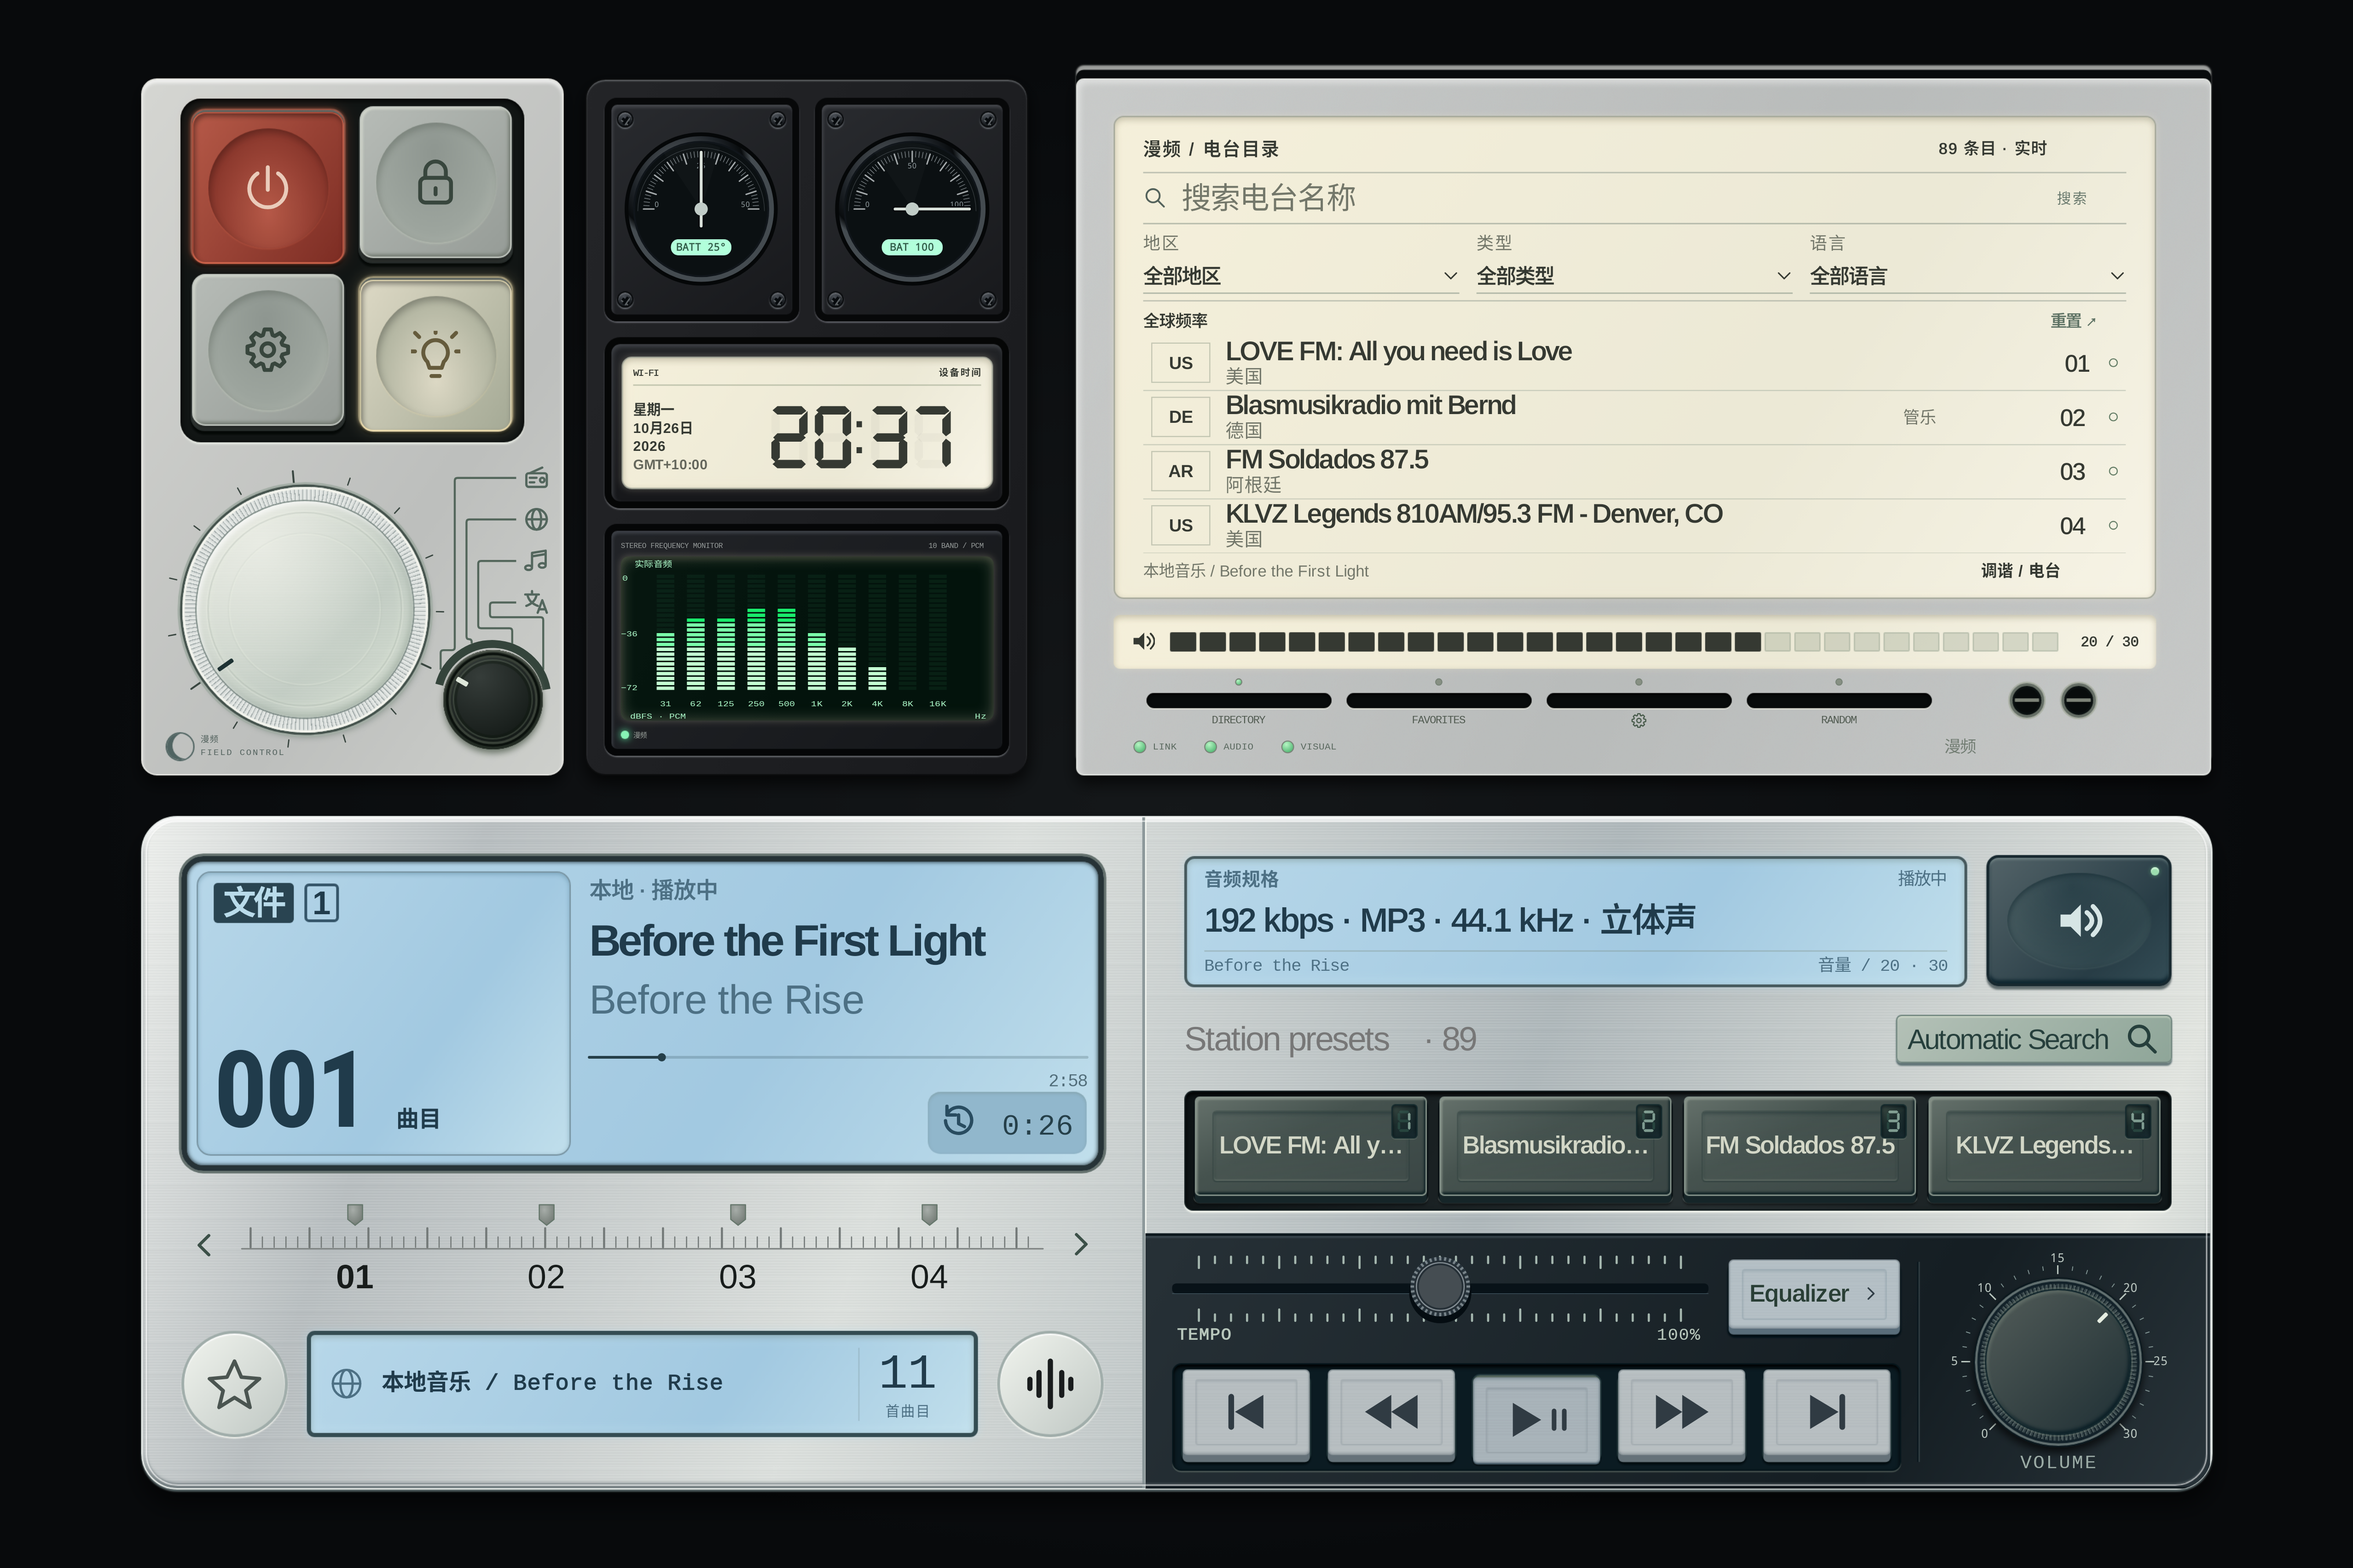
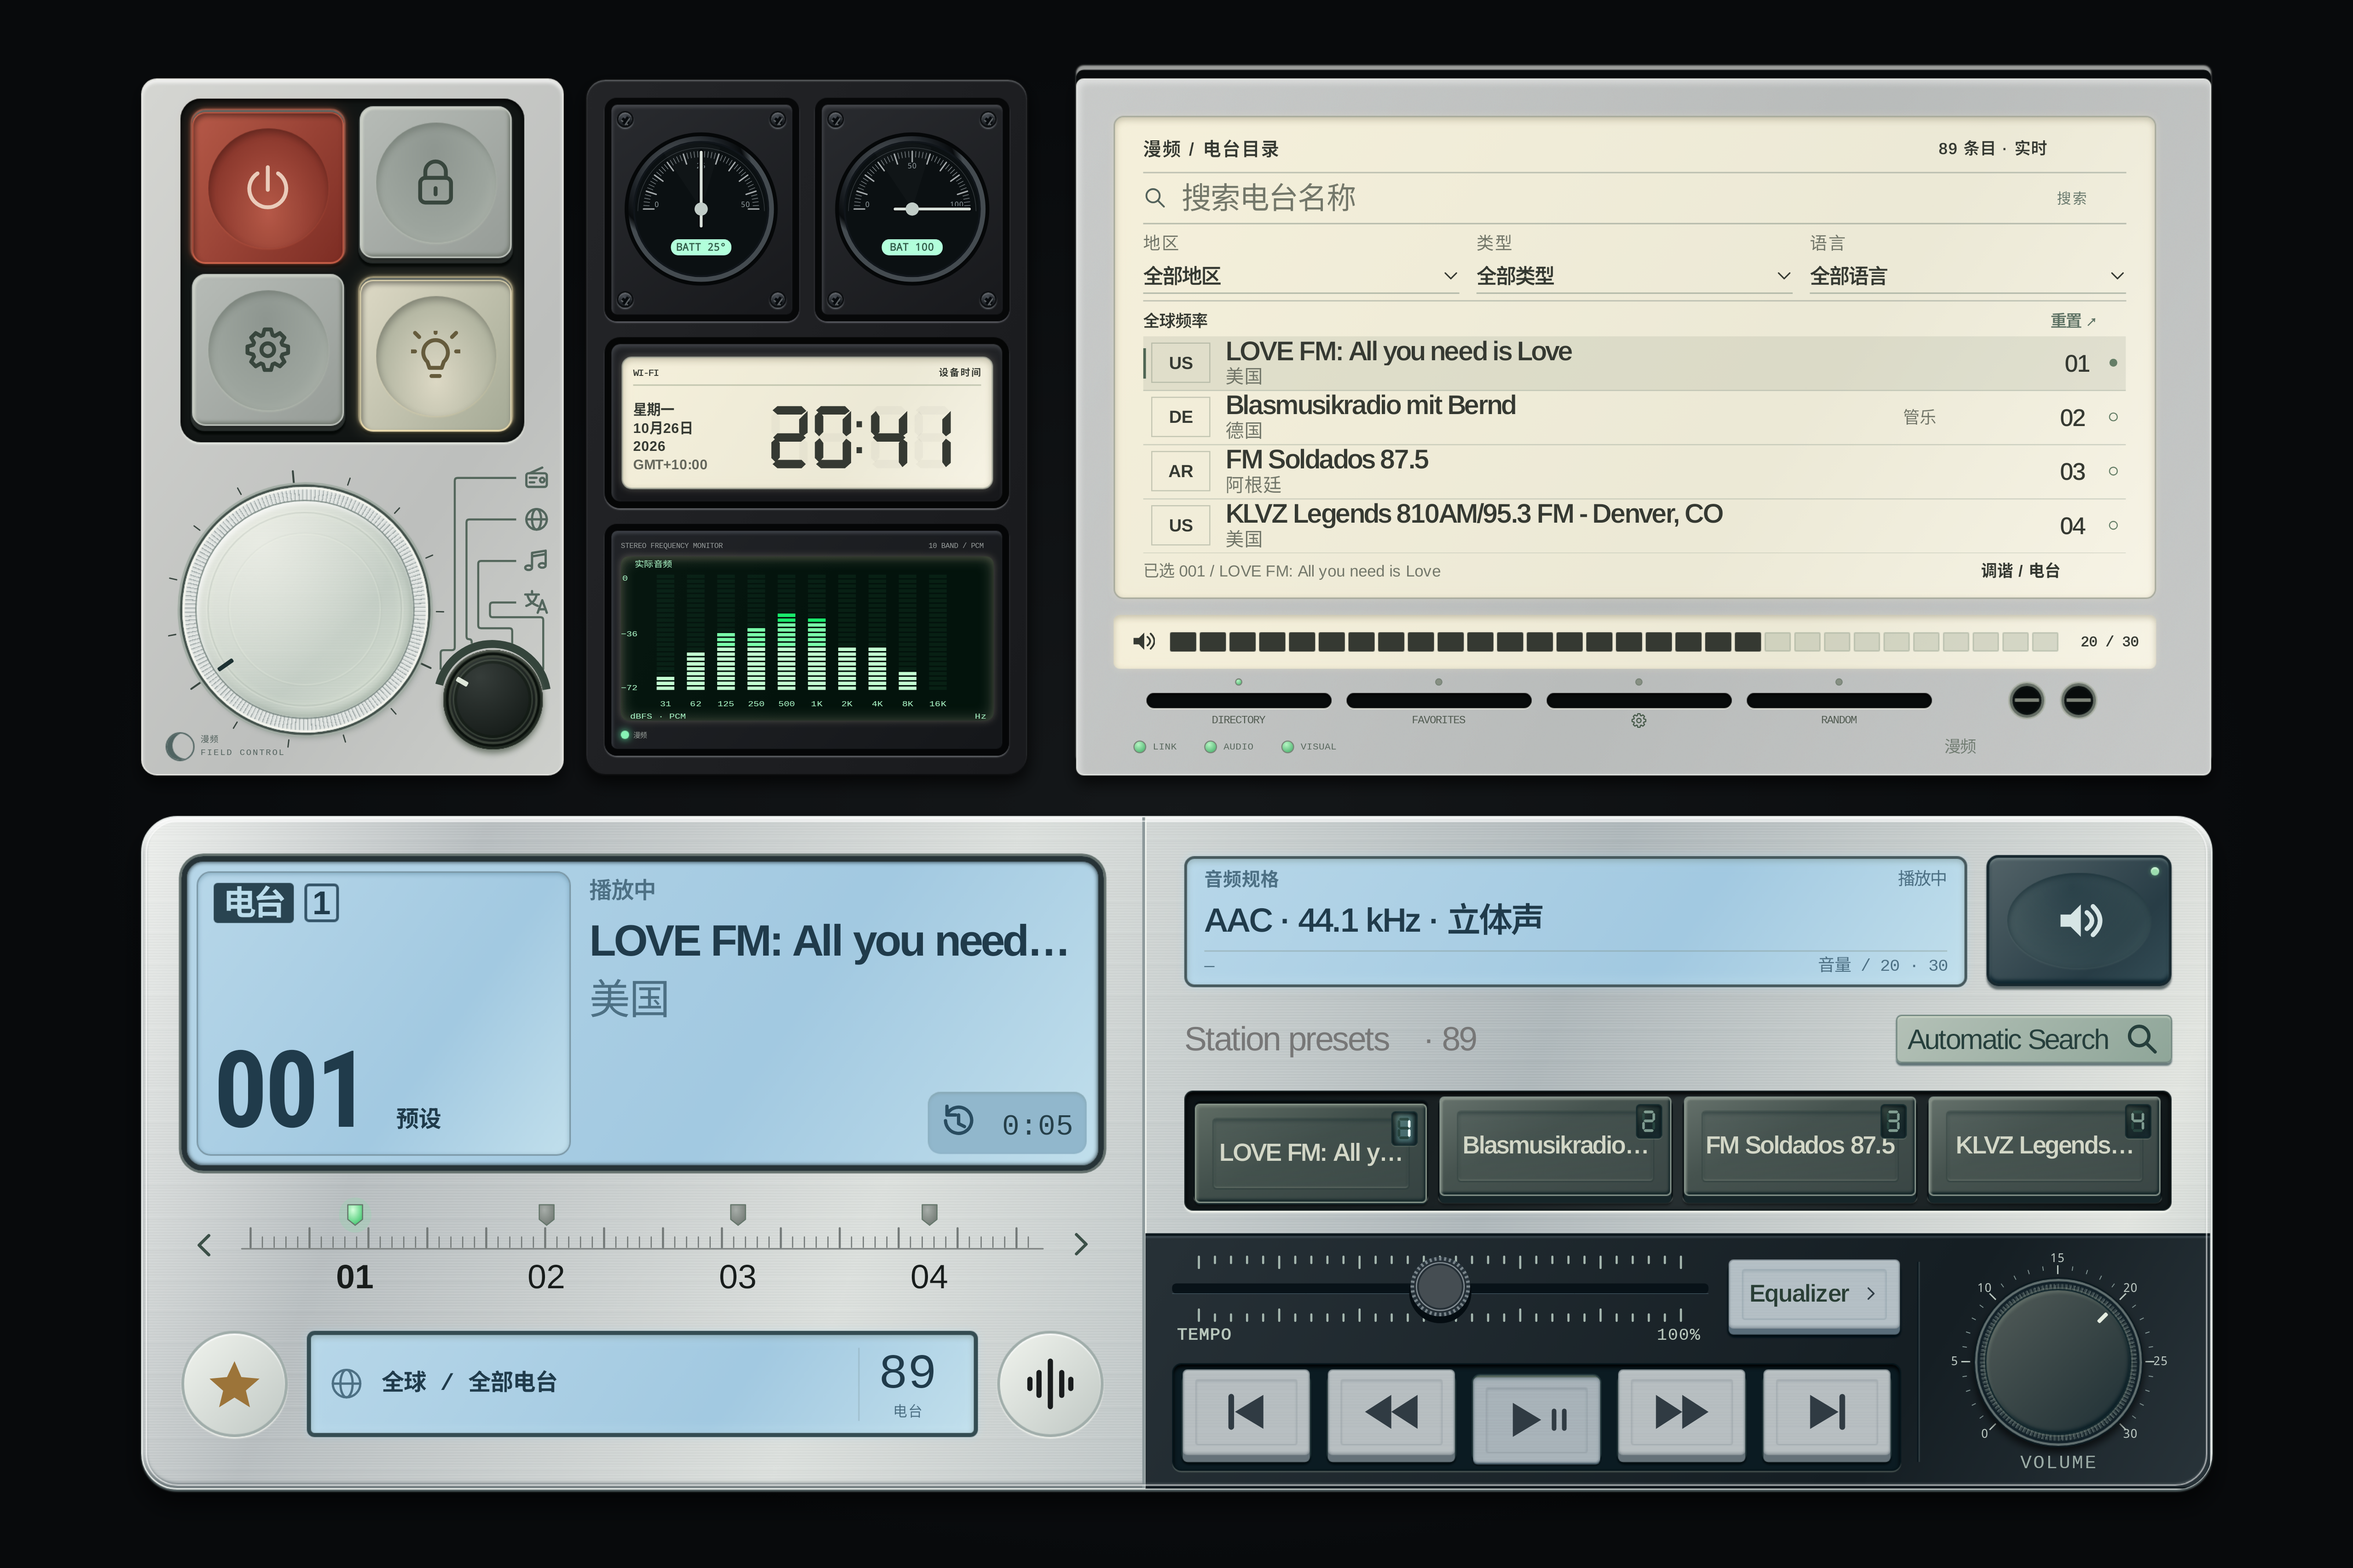
Show default radio playback in both README product mockups
Export both current native pages while a real catalogue station is decoding. Use the default radio CD at its resting orientation in the immersive view, with no bundled-album artwork. Keep the existing 5112x3408 export size, album-page image and image order.

Verify the native export reports radio source and zero CD rotation, inspect both complete PNGs, and preserve the released 1.0.0 APK byte-for-byte.

中文摘要：前两张高清示意图统一展示电台播放，沉浸页恢复静止朝向的默认 CD，第三张专辑页保持不变。

diff --git a/android/app/src/androidTest/java/com/aether/radio/ProductMockRenderer.kt b/android/app/src/androidTest/java/com/aether/radio/ProductMockRenderer.kt
@@ -19,22 +19,36 @@ class ProductMockRenderer(private val test:Instrumentation,private val activity:
             state.powered=true;state.locked=false;state.language="zh";state.page=0
             state.query="";state.region="";state.genre="";state.stationLanguage="";state.listOffset=0;state.presetOffset=0
             state.favorites.clear();state.favorites.addAll(state.catalog.distinctBy{it.id}.take(4).map{it.id})
-            state.spectrumEnabled=true;state.changeVolume(20);state.changeTempo(100)
+            state.spectrumEnabled=true;state.motion=false;state.changeVolume(20);state.changeTempo(100)
             state.showView("directory");activity.surface.setLight(true)
-            state.selectLocal(LocalMusic.bundled(test.targetContext),0)
         }
-        waitFor{state.playing&&state.spectrumFrame!=null&&activity.surface.immersivePlayback.coverLoaded&&!activity.surface.refreshing}
-        main{state.seekLocal(21000)}
-        waitFor{state.playing&&state.displayPositionMs>=21000}
+        val candidates=main{state.catalog.filter{it.stream?.startsWith("https://")==true}.take(4)}
+        check(candidates.isNotEmpty())
+        var connected=false
+        for(station in candidates){
+            main{state.select(station.id)}
+            val end=SystemClock.uptimeMillis()+25000
+            while(SystemClock.uptimeMillis()<end){
+                connected=main{!state.isLocal&&state.station?.id==station.id&&state.playing&&state.spectrumFrame!=null&&state.decodedFormat!=null}
+                if(connected)break
+                Thread.sleep(100)
+            }
+            if(connected)break
+        }
+        check(connected){"No real catalogue radio stream decoded for the product images"}
+        // Capture the default radio disc at its resting orientation without changing playback.
+        main{activity.surface.immersivePlayback.dragging=true;activity.surface.immersivePlayback.rotation=0f}
+        waitFor{!activity.surface.immersivePlayback.coverLoaded&&!activity.surface.refreshing}
         Thread.sleep(2400)
         val files=JSONArray()
         for((page,name) in listOf(0 to "modern-mock-hd.png",1 to "immersive-mock-hd.png")){
             main{activity.surface.cancelInput();state.page=page;state.changed()}
-            waitFor{activity.surface.committedPage==page&&!activity.surface.refreshing&&state.playing}
+            waitFor{activity.surface.committedPage==page&&!activity.surface.refreshing&&state.playing&&(page==0||activity.surface.painter.mainDisc!=null)}
             Thread.sleep(1600)
             val bitmap=main{
                 val view=activity.surface
                 check(view.width==3408&&view.height==2272)
+                view.immersivePlayback.dragging=true;view.immersivePlayback.rotation=0f
                 Bitmap.createBitmap(5112,3408,Bitmap.Config.ARGB_8888).also{image->
                     val canvas=Canvas(image);canvas.scale(1.5f,1.5f);view.draw(canvas)
                 }
@@ -44,8 +58,10 @@ class ProductMockRenderer(private val test:Instrumentation,private val activity:
             files.put(JSONObject().put("file",name).put("width",bitmap.width).put("height",bitmap.height).put("page",page))
             bitmap.recycle()
         }
+        main{activity.surface.immersivePlayback.dragging=false}
         return JSONObject().put("passed",true).put("version",BuildConfig.VERSION_NAME).put("versionCode",BuildConfig.VERSION_CODE)
-            .put("source","Current native view directly drawn to a high-resolution Canvas; actual decoded album audio; no system status bar or personal screenshot")
+            .put("source","Current native radio playback directly drawn to a high-resolution Canvas; default disc at resting orientation; no system status bar or personal screenshot")
+            .put("isLocal",false).put("station",main{state.station?.name}).put("discRotation",0)
             .put("files",files)
     }
 }
